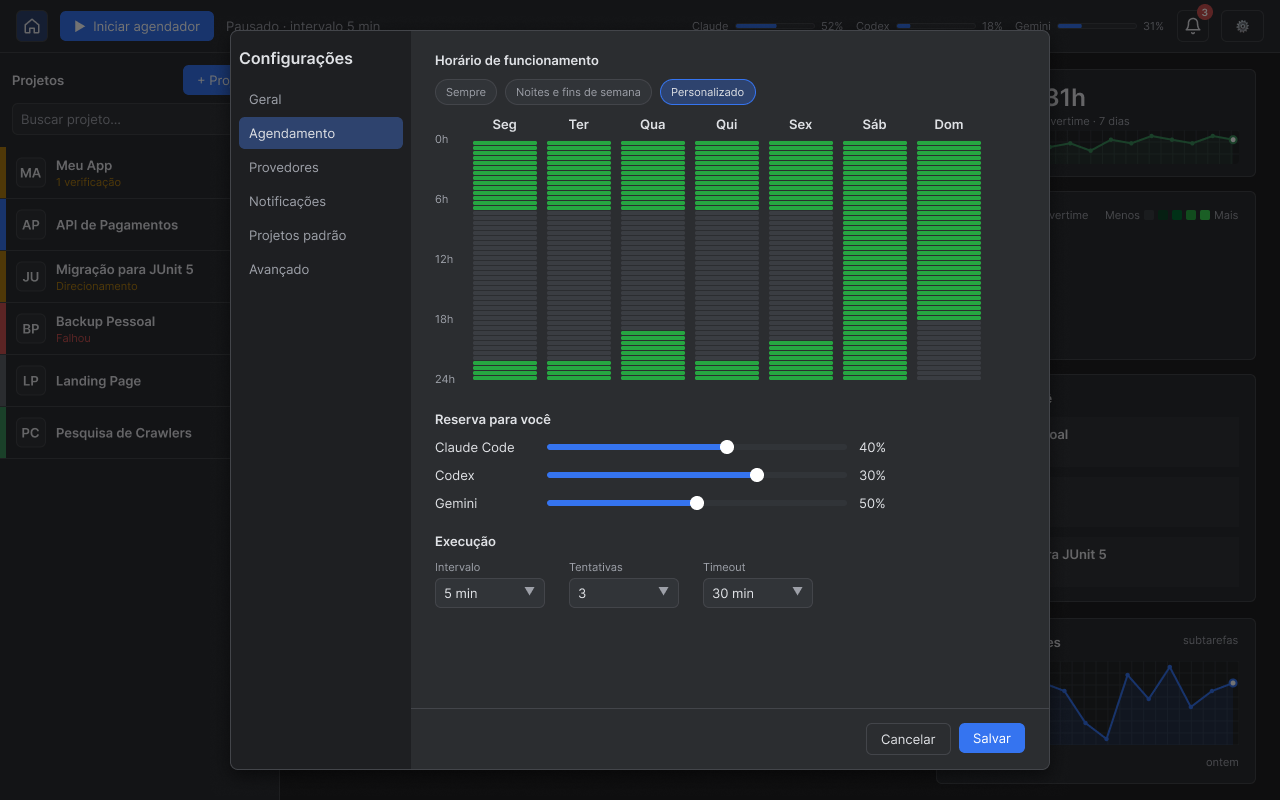
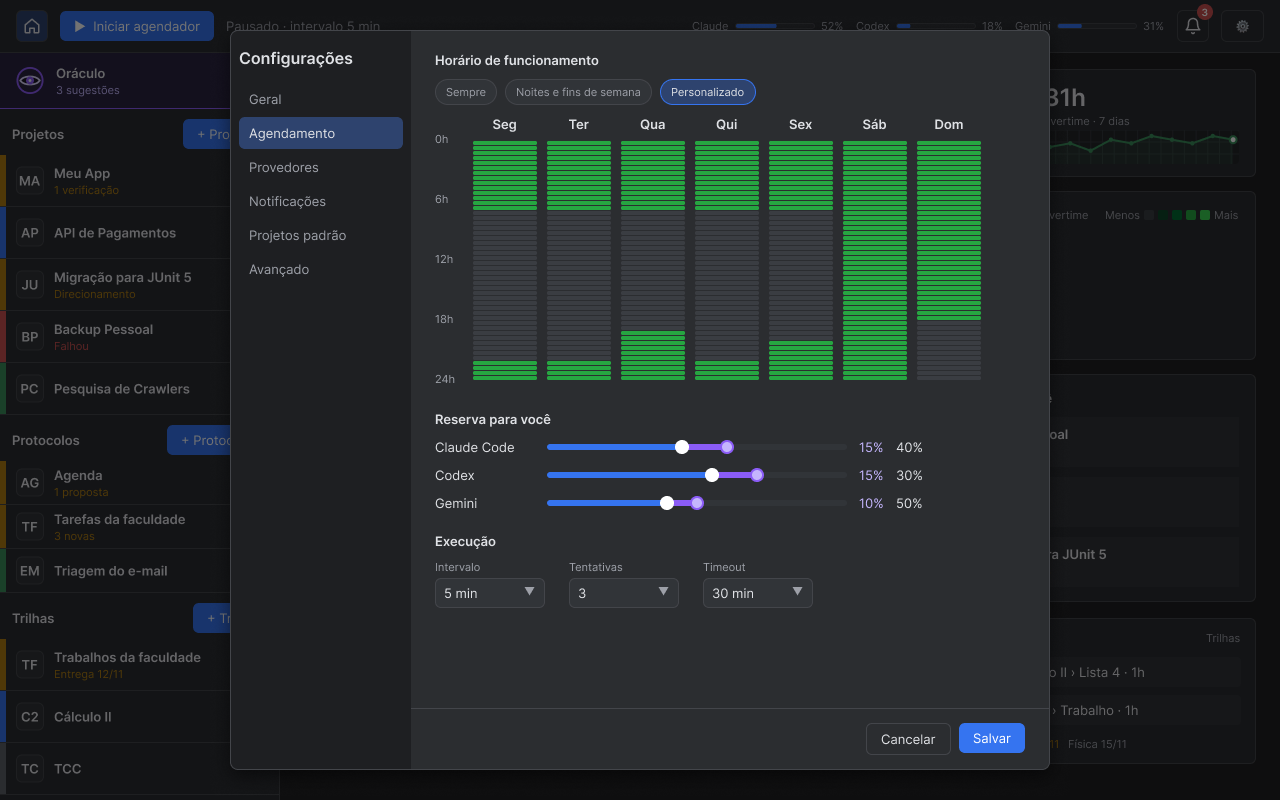
Oráculo, Trilhas e README com telas e pop-ups
- Oráculo: conceito, ícone, tasks roxas com o porquê, reserva própria (D-51 a D-55)
- Trilhas: tarefas pessoais no vault do Obsidian, blocos na agenda, Home como hub (D-56 a D-58)
- Barra lateral unificada: Oráculo, Projetos, Protocolos, Trilhas
- README: seções Trilha e Oráculo, pop-ups de novo projeto, novo protocolo, Oráculo e configurações

diff --git a/README.md b/README.md
@@ -10,7 +10,13 @@ Serve para qualquer tipo de projeto: desenvolvimento de software, pesquisa, escr
 
 Você organiza o trabalho em **Projetos** e, dentro deles, **Tasks**, cada uma quebrada em **Subtarefas** pequenas. Nos horários que você liberar, a app entrega a próxima subtarefa a um agente livre e registra o resultado.
 
-Além dos projetos, você cria **Protocolos**: rotinas que o agente segue de tempos em tempos, como ver as tarefas no portal da faculdade, ler o e-mail e montar um resumo, ou organizar a agenda dele com base no que encontrou. Quando uma subtarefa exige conferência humana, a app avisa você (na tela, no desktop e pelo WhatsApp) e espera sua aprovação. Com a janela fechada, ela continua trabalhando na bandeja do Windows.
+Além dos projetos, você cria **Protocolos**: rotinas que o agente segue de tempos em tempos, como ver as tarefas no portal da faculdade, ler o e-mail e montar um resumo, ou organizar a agenda dele com base no que encontrou.
+
+Para o que é trabalho seu, existem as **Trilhas**: tarefas como estudos e trabalhos da faculdade, com o tempo dividido em blocos que vão para a agenda e guardadas no seu vault do Obsidian.
+
+Acima de tudo isso está o **Oráculo**, que observa projetos, protocolos e trilhas e sugere o que fazer a seguir.
+
+Quando algo exige uma decisão sua, a app avisa (na tela, no desktop e pelo WhatsApp) e espera. Com a janela fechada, ela continua trabalhando na bandeja do Windows.
 
 ## Telas
 
@@ -18,15 +24,19 @@ Protótipos no Figma ([OvertimeDispatcher](https://www.figma.com/design/0BqwZD0E
 
 ### Home
 
-Mostra, num relance, quanto os agentes produziram, o que aconteceu na última sessão de overtime e o que está esperando uma decisão sua.
+O ponto de partida do dia: quanto os agentes produziram, o que aconteceu na última sessão de overtime, o que está esperando uma decisão sua e os blocos de estudo e trabalho marcados para hoje.
 
 ![Home](docs/imagens/home.png)
 
 ### Projeto
 
-Onde você organiza o trabalho: cria projetos, quebra cada Task em subtarefas, acompanha o andamento e o que o agente está fazendo, e revisa o que ficou pronto.
+Onde você organiza o trabalho dos agentes: quebra cada Task em subtarefas, define o que depende do quê, acompanha o que o agente está fazendo e revisa o que ficou pronto.
 
 ![Projeto](docs/imagens/projeto.png)
+
+Ao criar um projeto, você escolhe a pasta do computador onde ele vive, se ela usa git, os padrões das tasks e o que o agente pode fazer.
+
+![Novo projeto](docs/imagens/novo-projeto.png)
 
 ### Protocolo
 
@@ -34,11 +44,35 @@ Onde você define uma rotina para o agente seguir: o passo a passo, quando roda,
 
 ![Protocolo](docs/imagens/protocolo.png)
 
+Ao criar um protocolo, você escreve o passo a passo, escolhe os horários, os acessos (sites, e-mail, calendário) e quanto esforço o agente deve usar.
+
+![Novo protocolo](docs/imagens/novo-protocolo.png)
+
+### Trilha
+
+Onde ficam as suas tarefas: estudos, trabalhos e projetos pessoais, cada um com o tempo dividido em blocos. Mostra o que já foi feito, o que está na agenda e o próximo bloco. Tudo fica num arquivo do seu vault do Obsidian.
+
+![Trilha](docs/imagens/trilha.png)
+
 ### Configurações
 
-Define quando os agentes podem trabalhar sozinhos em cada dia da semana e quanto dos seus créditos fica reservado para você usar manualmente.
+Define quando os agentes podem trabalhar sozinhos em cada dia da semana e como os créditos de cada assinatura se dividem entre a automação, o Oráculo e você.
 
 ![Configurações](docs/imagens/configuracoes.png)
+
+## Oráculo
+
+O Oráculo é quem pensa no que vem depois. Ele lê os projetos, os protocolos e as trilhas e entende em que ponto cada um está. A partir disso:
+
+- **sugere tasks** quando um projeto contínuo fica sem trabalho, sempre com uma frase dizendo **por quê**;
+- **faz diagnósticos**, como um projeto parado, testes falhando ou tasks rejeitadas pelo mesmo motivo;
+- **monta e acompanha roadmaps**, principalmente de estudos, marcando o progresso a cada etapa concluída;
+- **sugere estudos** (vídeos, leituras, exercícios) a partir das matérias e dos trabalhos da faculdade;
+- **propõe novos protocolos** quando percebe algo que vale acompanhar sempre.
+
+Ele não executa nada sozinho: tudo o que sugere chega para você **aceitar ou recusar**, e a recusa ensina o que não sugerir de novo. Tudo o que vem do Oráculo aparece em **roxo**, e ele tem uma fatia própria dos créditos, definida nas configurações.
+
+![Oráculo](docs/imagens/oraculo.png)
 
 ## Princípios
 
@@ -73,11 +107,15 @@ Define quando os agentes podem trabalhar sozinhos em cada dia da semana e quanto
 | Interface | [docs/modulos/ui.md](docs/modulos/ui.md) |
 | RPC (chamadas externas e dos agentes) | [docs/modulos/rpc.md](docs/modulos/rpc.md) |
 | Protocolos (rotinas contínuas) | [docs/modulos/protocolos.md](docs/modulos/protocolos.md) |
+| Oráculo (sugestões e roadmap) — em definição | [docs/modulos/oraculo.md](docs/modulos/oraculo.md) |
+| Trilhas (suas tarefas, no vault do Obsidian) | [docs/modulos/trilhas.md](docs/modulos/trilhas.md) |
 
 ## Glossário
 
 | Termo | Significado |
 |---|---|
+| **Oráculo** | Observa os projetos e protocolos e sugere o que fazer: novas tasks, diagnósticos, roadmaps e estudos. |
+| **Trilha** | Conjunto de tarefas para você (estudo, trabalho, projeto pessoal), com tempo planejado em blocos que vão para a agenda; fica no seu vault do Obsidian. |
 | **Protocolo** | Rotina contínua: um passo a passo que o agente segue de tempos em tempos (ex.: ver tarefas no portal da faculdade, triar o e-mail, preencher o calendário). |
 | **Projeto** | Agrupa Tasks com o mesmo contexto; pode ter um repositório git. É o que aparece na barra da esquerda. |
 | **Task** | Unidade de trabalho com objetivo claro (equivale a uma história de usuário). |

diff --git a/docs/modulos/oraculo.md b/docs/modulos/oraculo.md
@@ -1,0 +1,79 @@
+# Oráculo
+
+> **Em definição.** Este documento registra o que já foi decidido; os pontos em aberto estão no fim.
+
+O Oráculo **observa e propõe**. Ele varre os projetos e protocolos, entende o estado em que estão e sugere o que fazer a seguir. Ele **não executa trabalho**: o que ele sugere entra pelos mecanismos que já existem (propostas e tasks, decisões D-48 e D-49).
+
+Fica **separado** de Projetos e Protocolos: é o primeiro item da barra lateral, com o símbolo de um **olho roxo** e um fundo levemente roxo.
+
+## Projetos finitos e contínuos
+
+| Tipo | Comportamento |
+|---|---|
+| **Finito** | As Tasks se esgotam e o projeto termina |
+| **Contínuo** | Nunca termina (ex.: um produto em evolução, estudos de uma matéria). Quando fica **sem tasks ou com poucas** (limite configurável, ex.: menos de 2 pendentes), o Oráculo é acionado para sugerir as próximas |
+
+Projetos contínuos têm um campo de **objetivo** (onde se quer chegar), que o Oráculo usa como norte.
+
+## O que ele lê
+
+Tudo o que ajuda a entender o estado de um projeto:
+- arquivos da pasta do projeto e, se houver git, o histórico de commits;
+- Tasks concluídas, rejeitadas e com falha, e os comentários de rejeição;
+- resultados dos protocolos (ex.: tarefas e matérias encontradas no portal da faculdade);
+- o objetivo e a descrição do projeto;
+- o roadmap do projeto (ver abaixo).
+
+## O que ele entrega
+
+| Entrega | Exemplo |
+|---|---|
+| **Sugestões de tasks** | "Adicionar testes para o fluxo de pagamento", com subtarefas propostas |
+| **Diagnósticos** | "Projeto parado há 12 dias", "testes falhando desde ontem", "3 tasks rejeitadas pelo mesmo motivo" |
+| **Roadmap** | Sugere um roadmap (principalmente para **estudos**) e marca o progresso nele conforme as tasks são concluídas |
+| **Sugestões de estudo** | A partir dos trabalhos recentes e das matérias da faculdade: vídeos, leituras, exercícios e pequenos projetos práticos |
+
+### Tasks do Oráculo
+
+O Oráculo **inclui tasks** diretamente na lista do projeto (decisão D-54):
+- aparecem **em roxo**: borda roxa, fundo levemente roxo e o olho do Oráculo ao lado;
+- embaixo do título, uma **frase curta com o porquê** da sugestão (ex.: "O login mudou 3 vezes este mês e não tem testes"). É a exceção à regra de texto mínimo: o motivo é o que permite decidir rápido;
+- cada uma tem **Aceitar** e **Recusar**;
+- **Aceitar** transforma em Task normal (entra na fila com a cor de estado comum); **Recusar** pede um motivo opcional, que o Oráculo usa para não sugerir a mesma coisa de novo;
+- enquanto não for aceita, a task do Oráculo **não roda**.
+
+Nos projetos que você marcar para aceitar direto do Oráculo, as tasks entram já aceitas.
+
+## Além de um projeto
+
+- **Visão geral:** o que merece a sua atenção em todos os projetos e protocolos.
+- **Estudos:** cruza o que os protocolos encontram (trabalhos, provas, matérias) com o que já foi estudado e sugere o que estudar.
+- Outras funções inspiradas em ferramentas parecidas, a definir (ver em aberto).
+
+## Onde aparece
+
+| Lugar | O quê |
+|---|---|
+| **Botão do Oráculo** (topo da barra lateral) | Abre a tela do Oráculo; mostra quantas sugestões novas há (`3 sugestões`) |
+| **Tela do Oráculo** | **Feed** com sugestões, diagnósticos e estudos de todos os projetos |
+| **Seção dentro de cada projeto** | O que o Oráculo diz sobre aquele projeto, incluindo o roadmap |
+| **Notificações** | Sugestões e diagnósticos importantes, com texto mínimo |
+
+Cor própria: **roxo**. As sugestões do Oráculo aparecem com borda roxa, separada das cores de estado.
+
+## Consumo
+
+O Oráculo tem uma **reserva própria**, definida em **Configurações › Agendamento**: cada controle de reserva tem uma **segunda alça, roxa**, que delimita a parte do Oráculo entre a automação (azul) e a sua reserva (cinza). Ele nunca usa o que está reservado para você nem o orçamento das Tasks.
+
+## Símbolo
+
+`IconeOraculo` no Figma, em duas versões:
+- **Detalhado:** olho amendoado com íris roxa, dentro de um anel com pétalas em mandala. Usado em telas grandes e no cabeçalho do Oráculo.
+- **Simples:** anel, olho e íris. Usado na barra lateral e nas notificações, de 16 a 24 px.
+
+## Em aberto
+
+- Quais funções inspiradas em ferramentas parecidas entram (ex.: revisão semanal, detecção de tarefas repetidas que poderiam virar protocolo, sugestão de prioridades).
+- Como o roadmap é exibido e editado.
+- Se o Oráculo também roda em ciclo fixo (ex.: revisão semanal), além do gatilho de "poucas tasks".
+- Valor padrão da reserva própria.

diff --git a/docs/modulos/trilhas.md b/docs/modulos/trilhas.md
@@ -1,0 +1,66 @@
+# Trilhas
+
+Tarefas **para você**, e não para os agentes: estudos, trabalhos da faculdade, projetos pessoais. Cada tarefa tem uma **duração planejada**, dividida em **blocos** de tempo que vão para a agenda (decisões D-56 a D-58).
+
+Uma **trilha** agrupa tarefas do mesmo assunto, por exemplo "Trabalhos da faculdade", "Cálculo II" ou "TCC". As trilhas são a terceira seção da barra lateral, depois de Projetos (dos agentes) e de Protocolos.
+
+## Vault do Obsidian
+
+- As trilhas moram num **vault de verdade do Obsidian**: uma pasta de arquivos `.md` no seu computador.
+- A app lê e escreve nesse vault, e você pode abrir a mesma pasta no Obsidian a qualquer momento ("Abrir no Obsidian").
+- Como as notas, links e anotações ficam com o Obsidian, a app implementa **só a seção de tarefas**.
+- Cada trilha é um arquivo, por exemplo `Vault/Trilhas/Trabalhos da faculdade.md`. As tarefas são linhas de checklist que o Obsidian entende, com metadados no próprio texto:
+
+```markdown
+- [ ] Trabalho de Redes ⏱ 6h 🧱 6×1h 📅 2026-11-12 ✅ 2/6
+- [ ] Lista 4 de Cálculo ⏱ 3h 🧱 3×1h ✅ 1/3
+- [x] Seminário de IA ⏱ 4h 🧱 4×1h ✅ 4/4
+```
+
+O formato exato dos metadados será definido para ser compatível com o plugin Tasks do Obsidian, sempre que possível.
+
+## Tarefa
+
+| Campo | Exemplo |
+|---|---|
+| Título | Trabalho de Redes |
+| Duração planejada | 6h |
+| Blocos | 6 blocos de 1h (a app sugere a divisão; você ajusta) |
+| Prazo | 12/11 (opcional) |
+| Andamento | blocos feitos / total (D-57) |
+| Origem | você, um protocolo ou o Oráculo |
+
+## Planejamento em blocos
+
+1. Você (ou quem injetou a tarefa) define a duração e o prazo.
+2. A app divide a tarefa em blocos e injeta cada bloco como task no protocolo **Agenda**, que o coloca na agenda do agente, nos horários livres antes do prazo.
+3. Você marca cada bloco quando o termina. O progresso é `blocos feitos / total`.
+
+Na tela, cada tarefa mostra uma fileira de blocos:
+
+| Bloco | Significado |
+|---|---|
+| verde | feito |
+| contorno azul | na agenda |
+| cinza | a agendar |
+
+Ao lado da fileira aparecem o andamento e o próximo bloco, por exemplo `2/6 · próximo hoje 19:00`.
+
+## De onde vêm as tarefas
+
+- **Você:** pelo botão "+ Tarefa" ou escrevendo direto no Obsidian.
+- **Protocolos:** por exemplo, "Tarefas da faculdade" encontra um trabalho e injeta a tarefa na trilha "Trabalhos da faculdade" (injeção de tasks, D-48).
+- **Oráculo:** sugere estudos (vídeos, leituras, exercícios) como tarefas em **roxo**, com o porquê embaixo e os botões Recusar e Aceitar (D-54, D-55).
+
+## Estado visual da trilha
+
+| Estado | Quando | Texto |
+|---|---|---|
+| Amarelo | Prazo próximo ou bloco atrasado | `Entrega 12/11` |
+| Azul | Tem bloco hoje | nenhum |
+| Cinza | Nada agendado | nenhum |
+| Verde | Todas as tarefas concluídas | nenhum |
+
+## Home como hub
+
+A Home também agrega as trilhas (D-58). O cartão **Hoje** mostra os blocos do dia com o horário (`14:00 Cálculo II › Lista 4 · 1h`) e os próximos prazos. Além do consumo e da atividade dos agentes, a Home passa a ser o ponto de partida do seu dia.

diff --git a/docs/decisoes.md b/docs/decisoes.md
@@ -58,6 +58,14 @@ Registro curto de decisões. Ao fechar uma decisão em aberto, mova-a para **Tom
 | D-48 | Agentes podem **injetar tasks** em outros protocolos e em projetos (ex.: "Tarefas da faculdade" injeta "incluir entrega no calendário" no protocolo "Agenda"); a task guarda a origem e uma chave contra duplicatas; limites contra laços (29/10/2026) | Protocolos que se alimentam formam um fluxo automático |
 | D-49 | Cada destino define **de quem aceita tasks direto**; o resto chega como **proposta** para você aceitar, editar ou descartar; projetos exigem aprovação por padrão (29/10/2026) | Autonomia onde você confia, controle no resto |
 | D-50 | **Todo projeto aponta para uma pasta do sistema** (obrigatória), onde o agente trabalha; git é opcional sobre essa pasta. Com git: branch `overtime/…`, worktree e merge com revisão. Sem git: o agente trabalha direto na pasta (29/10/2026) | Projetos que não são de código também têm um lugar no disco; a pasta `workspace/` deixa de existir |
+| D-51 | **Oráculo**: observa projetos e protocolos e propõe tasks, diagnósticos, roadmaps e estudos; não executa trabalho; fica no topo da barra lateral, com olho roxo e fundo levemente roxo (29/10/2026) | Projetos contínuos precisam de alguém que decida o que vem depois |
+| D-52 | Projetos podem ser **finitos** ou **contínuos**; contínuos têm objetivo e acionam o Oráculo quando ficam sem tasks ou com poucas (29/10/2026) | Alguns projetos nunca terminam |
+| D-53 | O Oráculo tem **reserva própria** de créditos, definida nas configurações (barra roxa) (29/10/2026) | Sugestões não competem com o seu uso nem com as Tasks |
+| D-54 | O Oráculo **inclui tasks** na lista do projeto, **em roxo**, com **Aceitar** e **Recusar**; só rodam depois de aceitas; o motivo da recusa alimenta o Oráculo (29/10/2026) | Sugestões aparecem onde o trabalho está, sem misturar com o que já foi decidido |
+| D-55 | **Tudo o que é do Oráculo é roxo**, inclusive os botões de ação (Aceitar roxo, Recusar com contorno roxo) (29/10/2026) | Identidade visual única: dá para saber de relance o que veio do Oráculo |
+| D-56 | **Trilhas**: tarefas para você (estudos, trabalhos, projetos pessoais), agrupadas em trilhas e guardadas num **vault real do Obsidian** (arquivos `.md`); a app implementa só a seção de tarefas; terceira seção da barra lateral (29/10/2026) | O Obsidian já resolve notas e links; a app foca no planejamento |
+| D-57 | Duração **planejada em blocos**; andamento = blocos feitos / total; cada bloco é injetado no protocolo Agenda e vai para o calendário (29/10/2026) | Transforma prazo em tempo reservado |
+| D-58 | A **Home vira hub**: além de consumo e atividade, agrega as trilhas (blocos de hoje e próximos prazos) (29/10/2026) | Um só lugar para começar o dia |
 
 ## Em aberto
 

diff --git a/docs/modulos/consumo.md b/docs/modulos/consumo.md
@@ -42,7 +42,12 @@ public interface PoliticaDeConsumo {
 
 Na tela (**Configurações › Agendamento**, decisão D-38):
 - **Horário de funcionamento:** uma **barra vertical larga por dia da semana**, de 0h (topo) a 24h (base), dividida em **48 segmentos de 30 minutos**. Segmento verde = selecionado = horário válido para a execução automática. Clicar alterna um segmento; clicar e arrastar seleciona (ou desmarca) vários de uma vez, inclusive entre dias. Atalhos: "Sempre", "Noites e fins de semana" e "Personalizado". Vale para todos os provedores; é guardado como uma lista de 7 × 48 valores.
-- **Reserva para você:** um controle deslizante por provedor; o valor é a parte que fica para você (ex.: 40% → a automação usa até 60% da janela).
+- **Reserva para você:** um controle deslizante por provedor com **duas alças**, que dividem a janela em três partes:
+  - **azul** (do início até a alça branca): o que a automação de Tasks e Protocolos pode usar;
+  - **roxo** (entre a alça branca e a alça roxa): a **reserva do Oráculo** (D-53);
+  - **cinza** (depois da alça roxa): o que fica para você.
+
+  Ao lado aparecem a parte do Oráculo (roxo) e a sua (ex.: `15%  40%`). Arrastar a alça branca troca espaço entre automação e Oráculo; arrastar a roxa troca espaço entre Oráculo e você.
 - **Execução:** intervalo do agendador, tentativas e timeout.
 
 ## Regras da política

diff --git a/docs/funcionalidades.md b/docs/funcionalidades.md
@@ -111,6 +111,17 @@ Lista de funcionalidades por área. A coluna **Fase** remete ao [roadmap](roadma
 | F-110 | Aceitar, editar ou descartar propostas (na tela, no desktop e no WhatsApp) | 4 |
 | F-111 | Rascunhos de e-mail criados pelo agente | 4 |
 
+## Trilhas
+
+| ID | Funcionalidade | Fase |
+|---|---|---|
+| F-120 | Ligar a app a um vault do Obsidian (pasta de `.md`); "Abrir no Obsidian" | 3 |
+| F-121 | Criar trilhas e tarefas pessoais (título, duração, prazo), gravadas como checklist no vault | 3 |
+| F-122 | Dividir a duração em blocos e injetar cada bloco no protocolo Agenda | 4 |
+| F-123 | Marcar blocos feitos; andamento = blocos feitos / total | 3 |
+| F-124 | Receber tarefas de protocolos e sugestões do Oráculo (roxo, com o porquê) | 4 |
+| F-125 | Seção Trilhas na barra lateral e tela da trilha | 3 |
+
 ## Home
 
 | ID | Funcionalidade | Fase |
@@ -120,7 +131,7 @@ Lista de funcionalidades por área. A coluna **Fase** remete ao [roadmap](roadma
 | F-92 | Mapa de atividade do último ano (estilo contribuições do GitHub) | 3 |
 | F-93 | Resumo da última sessão de overtime (horário, consumo, Tasks) | 3 |
 | F-94 | "Precisa de você" com as pendências de todos os projetos | 3 |
-| F-95 | Gráfico das últimas 14 noites | 3 |
+| F-95 | Cartão "Hoje": blocos das trilhas do dia e próximos prazos (substitui o gráfico das últimas 14 noites) | 3 |
 
 ## Configuração
 

diff --git a/docs/dominio.md b/docs/dominio.md
@@ -75,7 +75,7 @@ Unidade de trabalho com objetivo claro — equivalente a uma história de usuár
 | `commitBase` | `String` | Só em projeto com git: commit da branch padrão de onde a branch partiu; base do diff de revisão |
 | `mergeada` | `boolean` | Só em projeto com git: você aprovou e o merge foi feito |
 | `subtarefas` | `List<Subtarefa>` | A ordem da lista é a ordem de execução |
-| `origem` | `Origem` | `MANUAL` (você) ou `INJETADA(origem, execução)` — de qual protocolo ou Task veio (decisão D-48) |
+| `origem` | `Origem` | `MANUAL` (você), `INJETADA(origem, execução)` — de qual protocolo ou Task veio (decisão D-48) — ou `ORACULO` (decisão D-54) |
 | `chave` | `String` | Opcional; identifica a task injetada para evitar duplicatas (ex.: `entrega:fisica:relatorio-3`) |
 | `proposta` | `boolean` | Injetada por origem não confiável: espera você aceitar, editar ou descartar (decisão D-49) |
 
